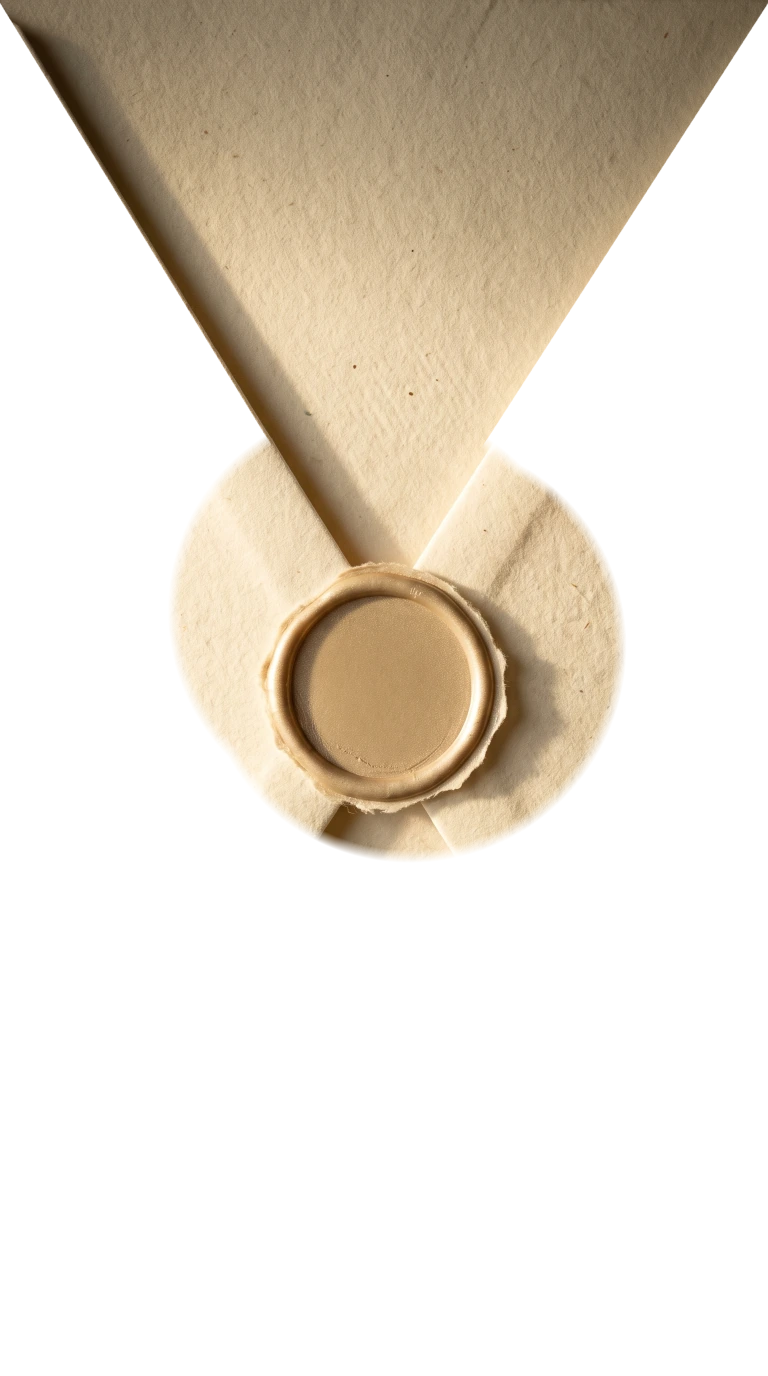
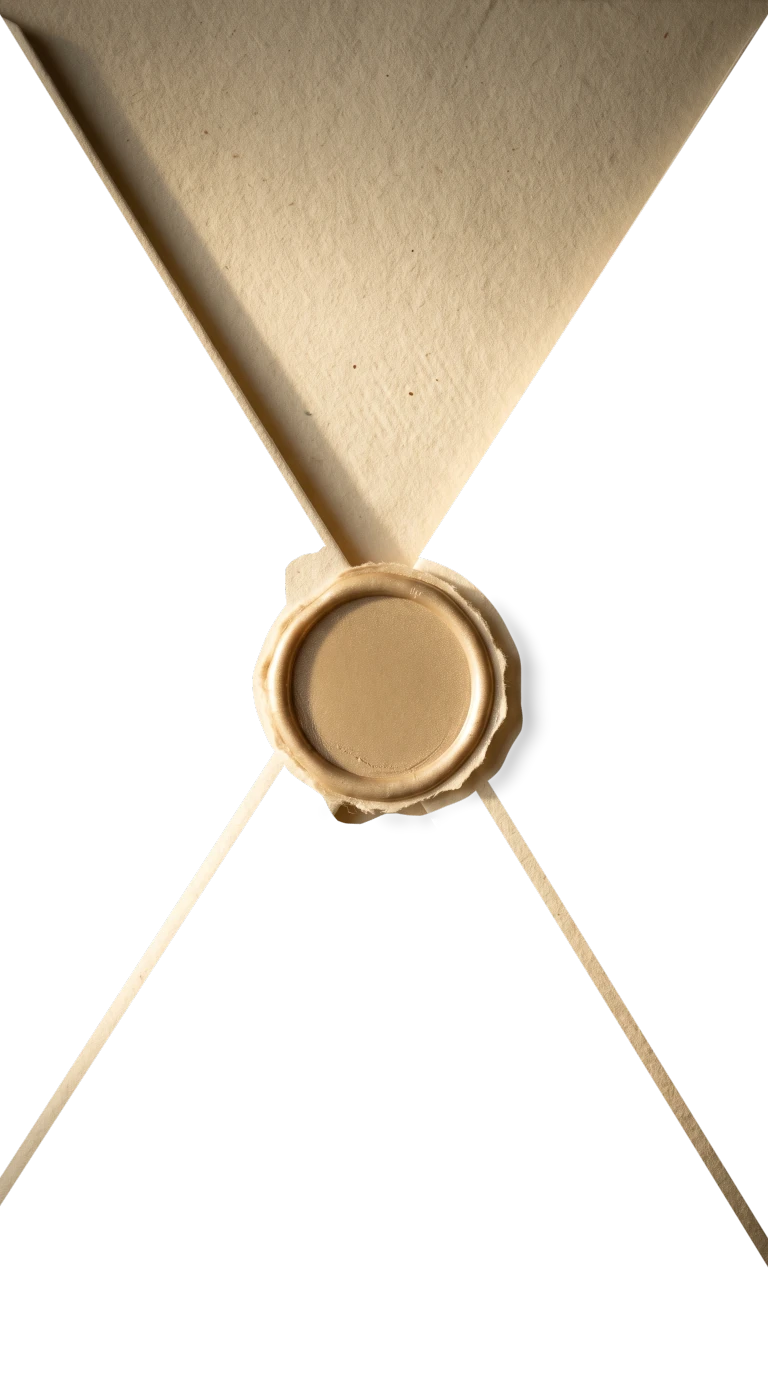
Lacre recortado por su silueta real + cuerpo WebP con alfa

diff --git a/sobres/catalogo.js b/sobres/catalogo.js
@@ -189,7 +189,13 @@ window.SOBRES_INVITAME = {
      ---------------------------------------------------------------------- */
   maestro: {
     nombre:   "Maestro · papel de algodón, cuatro solapas, lacre champagne (foto)",
+    /* `poster` = la foto del sobre CERRADO, opaca: miniatura del admin y
+       poster del <video>. `cuerpo` = el mismo sobre con el AGUJERO ya
+       recortado adentro del archivo (WebP con alfa, borde de 34 px con
+       sombra de contacto) y el lacre y su sombra borrados, porque los lleva
+       la solapa. */
     poster:   "/sobres/sobre-maestro.jpg",
+    cuerpo:   "/sobres/sobre-maestro-cuerpo.webp",
     solapa:   "/sobres/sobre-maestro-solapa.webp",
     color:    "#e6dcc8",
     apertura: "solapas",
